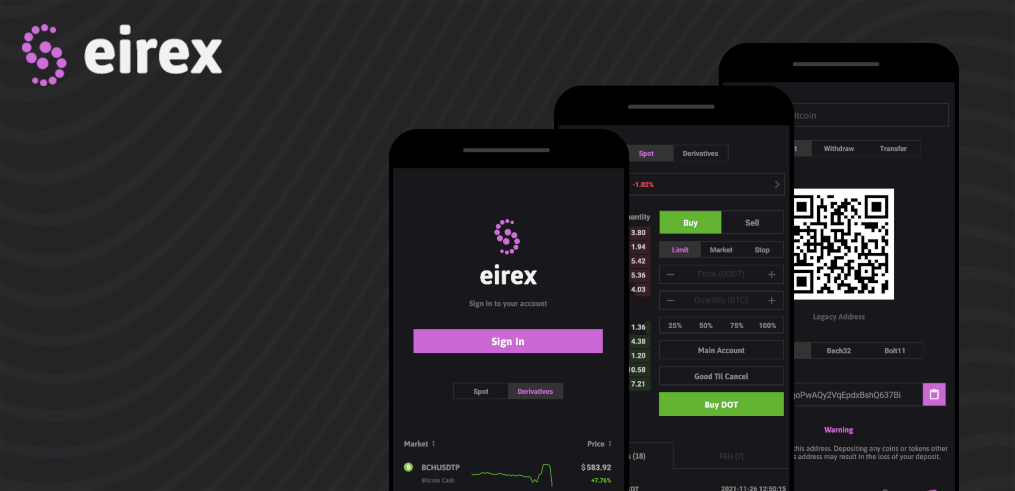
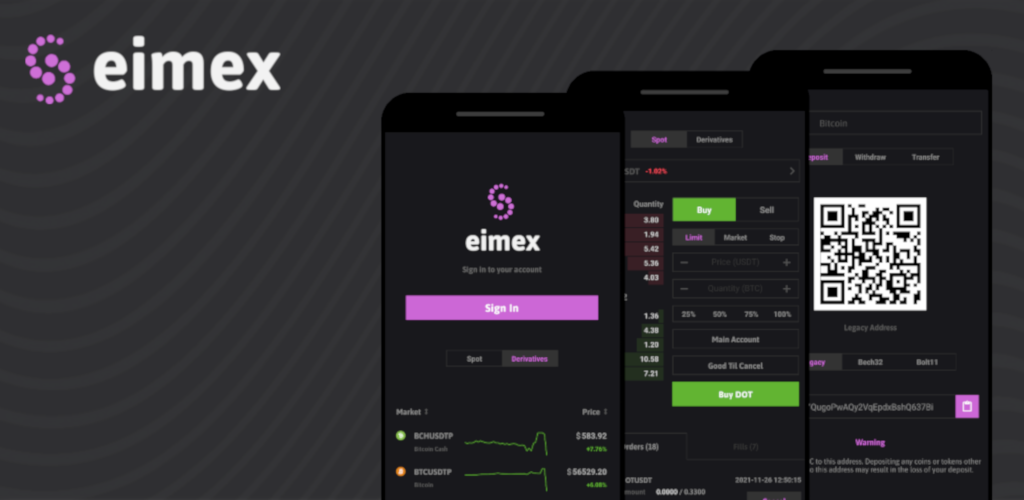
Update the README files

Changed region(s): [[0.3665, 0.0611, 0.9773, 1.0], [0.0, 0.0305, 0.2749, 0.2138]]

diff --git a/preview_release/README.md b/preview_release/README.md
@@ -1,6 +1,6 @@
 Finally, after close to 15 months of development we are providing users with an opportunity for early access the platform.
 If you would like to access the preview release please raise a request 
-at [support@eirex.com](mailto:support@eirex.com). Deposits and withdrawals are accepted 
+at [support@eimex.exchange](mailto:support@eimex.exchange). Deposits and withdrawals are accepted 
 for Bitcoin, Ethereumm, Polkadot, Litecoin, Bitcoin Cash, Tether, USD Coin, Binance Coin, amongst many more.
 
 ![Login](https://raw.githubusercontent.com/eirex-exchange/blog/master/preview_release/screen_login.png)
@@ -17,8 +17,8 @@ of production.
 
 | Environment  | URL |
 | ------------- | ------------- |
-| Main       | [https://eirex.com/](https://eirex.com/)  |
-| Test       | [https://test.eirex.com](https://test.eirex.com)  |
+| Main       | [https://eimex.exchange/](https://eimex.exchange/)  |
+| Test       | [https://test.eimex.exchange](https://test.eimex.exchange)  |
 
 #### Trading API
 
@@ -27,9 +27,9 @@ Below are the URLs to access both the test and production environments.
 
 | Protocol  | Main | Test |
 | ------------ | ------------- | ----- |
-| FIX          | [tcp+ssl://fix.eirex.com:443](https://eirex.com/docs#fix)   | [tcp+ssl://testfix.eirex.com:443](https://test.eirex.com/docs#fix) |
-| WebSocket    | [wss://api.eirex.com/v1/ws](https://eirex.com/docs#ws)   | [wss://testapi.eirex.com/v1/ws](https://test.eirex.com/docs#ws) |
-| HTTP         |  [https://api.eirex.com/v1](https://eirex.com/docs#rest)  | [https://testapi.eirex.com/v1](https://test.eirex.com/docs#rest) |
+| FIX          | [tcp+ssl://fix.eimex.exchange:443](https://eimex.exchange/docs#fix)   | [tcp+ssl://testfix.eimex.exchange:443](https://test.eimex.exchange/docs#fix) |
+| WebSocket    | [wss://api.eimex.exchange/v1/ws](https://eimex.exchange/docs#ws)   | [wss://testapi.eimex.exchange/v1/ws](https://test.eimex.exchange/docs#ws) |
+| HTTP         |  [https://api.eimex.exchange/v1](https://eimex.exchange/docs#rest)  | [https://testapi.eimex.exchange/v1](https://test.eimex.exchange/docs#rest) |
 
 
 

diff --git a/mobile_early_access/README.md b/mobile_early_access/README.md
@@ -1,5 +1,5 @@
 Early access is now available to our mobile app for iOS and Android users. If you would like early access please raise a request 
-at [support@eirex.com](mailto:support@eirex.com). Deposits and withdrawals are accepted 
+at [support@eimex.exchange](mailto:support@eimex.exchange). Deposits and withdrawals are accepted 
 for Bitcoin, Ethereumm, Polkadot, Litecoin, Bitcoin Cash, Tether, USD Coin, Binance Coin, amongst many more.
 
 ![Mobile](https://raw.githubusercontent.com/eirex-exchange/blog/master/mobile_early_access/android_banner_light.png)
